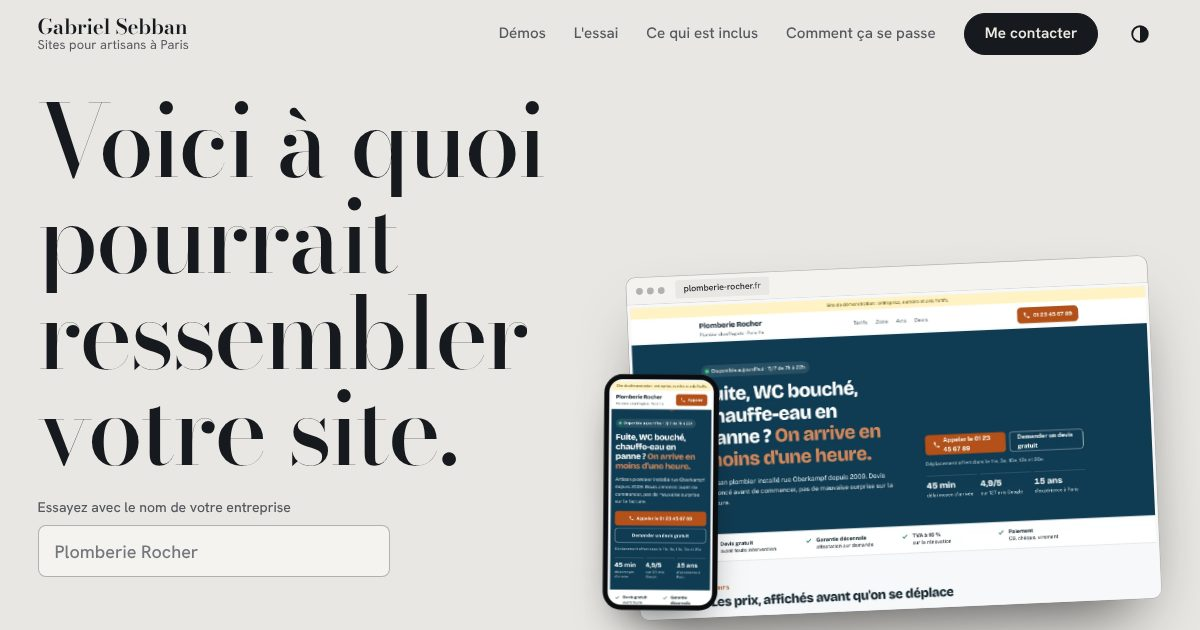
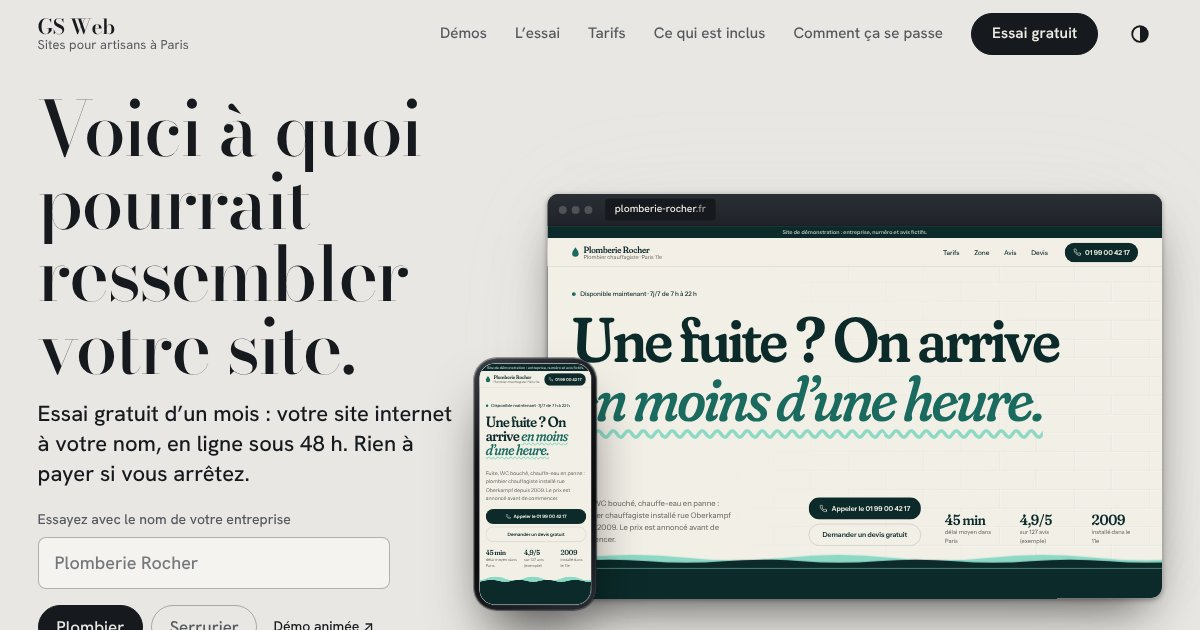
Nom GS Web et domaine gs-web.fr : titre, menu, pied de page, pages légales, aperçu de lien, fiche Google, plan du site
Claude-Session: https://claude.ai/code/session_01TEhd5nPBEFSPFYX54yiJJf

diff --git a/index.html b/index.html
@@ -3,17 +3,21 @@
 <head>
 <meta charset="utf-8">
 <meta name="viewport" content="width=device-width, initial-scale=1, viewport-fit=cover">
-<title>Création de sites internet pour artisans à Paris — Gabriel Sebban</title>
-<!-- Adresse temporaire GitHub Pages ; quand le domaine .fr sera acheté, remplacer cette adresse dans index.html, robots.txt et sitemap.xml -->
-<link rel="canonical" href="https://gabrielsebban3-code.github.io/site-vitrine/">
+<title>Création de sites internet pour artisans à Paris | GS Web</title>
+<link rel="canonical" href="https://gs-web.fr/">
 <meta name="description" content="Site internet pour artisans parisiens : plombier, serrurier, électricien. Essai gratuit d'un mois, première version en ligne sous 48 h, rien à payer si vous arrêtez.">
 <meta name="theme-color" content="#E9E7E3" media="(prefers-color-scheme: light)">
 <meta name="theme-color" content="#16191D" media="(prefers-color-scheme: dark)">
 <meta property="og:type" content="website">
 <meta property="og:locale" content="fr_FR">
+<meta property="og:site_name" content="GS Web">
 <meta property="og:title" content="Votre site à l'essai pendant 1 mois">
 <meta property="og:description" content="Sites pour artisans à Paris. Une première version à votre nom sous 48 h, retirée à la fin du mois si vous ne continuez pas.">
-<meta property="og:image" content="https://gabrielsebban3-code.github.io/site-vitrine/img/og.jpg">
+<meta property="og:image" content="https://gs-web.fr/img/og.jpg">
+<meta property="og:image:width" content="1200">
+<meta property="og:image:height" content="630">
+<meta property="og:image:alt" content="Le site GS Web : « Voici à quoi pourrait ressembler votre site », avec une démo de site pour artisan.">
+<meta name="twitter:card" content="summary_large_image">
 <link rel="icon" href="img/favicon.svg?v=2" type="image/svg+xml">
 <link rel="preload" href="fonts/bodoni-moda.woff2" as="font" type="font/woff2" crossorigin>
 <link rel="preload" href="fonts/hanken-grotesk.woff2" as="font" type="font/woff2" crossorigin>
@@ -27,14 +31,14 @@
   document.documentElement.classList.add('js');
 </script>
 <script src="js/main.js" defer></script>
-<meta property="og:url" content="https://gabrielsebban3-code.github.io/site-vitrine/">
+<meta property="og:url" content="https://gs-web.fr/">
 </head>
 <body>
 <a class="skip" href="#contenu">Aller au contenu</a>
 
 <header class="nav" id="haut">
   <div class="nav__in">
-    <a class="nav__brand" href="#haut">Gabriel Sebban<span>Sites pour artisans à Paris</span></a>
+    <a class="nav__brand" href="#haut">GS Web<span>Sites pour artisans à Paris</span></a>
     <nav class="nav__links" id="menu" aria-label="Menu principal">
       <a href="#les-demos">Démos</a>
       <a href="#offre">L’essai</a>
@@ -382,7 +386,7 @@
 </main>
 
 <footer class="foot">
-  <p>Gabriel Sebban — création de sites internet pour artisans, Paris</p>
+  <p>GS Web, Gabriel Sebban : création de sites internet pour artisans, Paris</p>
   <nav aria-label="Pages légales">
     <a class="link" href="mentions-legales.html">Mentions légales</a>
     <a class="link" href="conditions-essai.html">Conditions de l’essai</a>
@@ -410,7 +414,10 @@
 {
   "@context": "https://schema.org",
   "@type": "ProfessionalService",
-  "name": "Gabriel Sebban — Sites internet pour artisans",
+  "name": "GS Web",
+  "url": "https://gs-web.fr/",
+  "image": "https://gs-web.fr/img/og.jpg",
+  "email": "gabrielsebban3@gmail.com",
   "description": "Création de sites internet pour artisans à Paris (plombiers, serruriers, électriciens, peintres). Essai gratuit d'un mois : première version à votre nom en ligne sous 48 h, rien à payer si vous arrêtez.",
   "telephone": "+33649298151",
   "areaServed": { "@type": "City", "name": "Paris" },

diff --git a/mentions-legales.html b/mentions-legales.html
@@ -3,8 +3,8 @@
 <head>
 <meta charset="utf-8">
 <meta name="viewport" content="width=device-width, initial-scale=1">
-<title>Mentions légales | Gabriel Sebban</title>
-<meta name="description" content="Mentions légales du site de Gabriel Sebban, créateur de sites pour artisans à Paris.">
+<title>Mentions légales | GS Web</title>
+<meta name="description" content="Mentions légales du site GS Web (gs-web.fr), édité par Gabriel Sebban, créateur de sites pour artisans à Paris.">
 <meta name="robots" content="noindex">
 <link rel="icon" href="img/favicon.svg?v=2" type="image/svg+xml">
 <link rel="preload" href="fonts/bodoni-moda.woff2" as="font" type="font/woff2" crossorigin>
@@ -16,13 +16,13 @@
 </head>
 <body>
 <a class="skip" href="#contenu">Aller au contenu</a>
-<header class="legal-top"><a class="legal-brand" href="index.html">Gabriel Sebban</a><a class="link" href="index.html">Retour au site</a></header>
+<header class="legal-top"><a class="legal-brand" href="index.html">GS Web</a><a class="link" href="index.html">Retour au site</a></header>
 <main id="contenu" class="legal">
 <h1>Mentions légales</h1>
 <p class="legal-draft">Page en cours de finalisation : le numéro SIRET et l’adresse seront ajoutés très prochainement.</p>
 
 <h2>Éditeur du site</h2>
-<p>Gabriel Sebban, entrepreneur individuel (micro-entreprise).<br>SIRET&nbsp;: [à compléter]<br>Adresse&nbsp;: 93230 Romainville<br>Téléphone&nbsp;: <a href="tel:+33649298151">06 49 29 81 51</a><br>E-mail&nbsp;: <a href="mailto:gabrielsebban3@gmail.com">gabrielsebban3@gmail.com</a></p>
+<p>Site GS Web (gs-web.fr), édité par Gabriel Sebban, entrepreneur individuel (micro-entreprise).<br>SIRET&nbsp;: [à compléter]<br>Adresse&nbsp;: 93230 Romainville<br>Téléphone&nbsp;: <a href="tel:+33649298151">06 49 29 81 51</a><br>E-mail&nbsp;: <a href="mailto:gabrielsebban3@gmail.com">gabrielsebban3@gmail.com</a></p>
 <p>Directeur de la publication&nbsp;: Gabriel Sebban.</p>
 <h2>Hébergement</h2>
 <p>Ce site est hébergé par GitHub, Inc. (service GitHub Pages), 88 Colin P. Kelly Jr. Street, San Francisco, CA 94107, États-Unis — <a class="link" href="https://pages.github.com" rel="noopener">pages.github.com</a>.</p>
@@ -40,6 +40,6 @@
 <p>Les textes et la mise en page de ce site appartiennent à Gabriel Sebban. Les entreprises présentées dans les démos sont fictives.</p>
 
 </main>
-<footer class="foot"><p>Gabriel Sebban, Paris</p><nav aria-label="Pages légales"><a class="link" href="mentions-legales.html">Mentions légales</a><a class="link" href="conditions-essai.html">Conditions de l’essai</a></nav></footer>
+<footer class="foot"><p>GS Web, Gabriel Sebban, Paris</p><nav aria-label="Pages légales"><a class="link" href="mentions-legales.html">Mentions légales</a><a class="link" href="conditions-essai.html">Conditions de l’essai</a></nav></footer>
 </body>
 </html>

diff --git a/conditions-essai.html b/conditions-essai.html
@@ -3,7 +3,7 @@
 <head>
 <meta charset="utf-8">
 <meta name="viewport" content="width=device-width, initial-scale=1">
-<title>Conditions de l’essai | Gabriel Sebban</title>
+<title>Conditions de l’essai | GS Web</title>
 <meta name="description" content="Conditions de l'essai gratuit d'un mois : votre site à votre nom, retiré à la fin du mois si vous ne continuez pas, rien à payer.">
 <meta name="robots" content="noindex">
 <link rel="icon" href="img/favicon.svg?v=2" type="image/svg+xml">
@@ -16,7 +16,7 @@
 </head>
 <body>
 <a class="skip" href="#contenu">Aller au contenu</a>
-<header class="legal-top"><a class="legal-brand" href="index.html">Gabriel Sebban</a><a class="link" href="index.html">Retour au site</a></header>
+<header class="legal-top"><a class="legal-brand" href="index.html">GS Web</a><a class="link" href="index.html">Retour au site</a></header>
 <main id="contenu" class="legal">
 <h1>Conditions de l’essai</h1>
 <p class="legal-draft">Version de lancement : un accord écrit reprenant ces conditions est remis avant chaque essai.</p>
@@ -39,6 +39,6 @@
 <p>Un site aide vos clients à vous trouver et à vous appeler, mais je ne peux pas garantir un nombre d’appels ou de chantiers.</p>
 
 </main>
-<footer class="foot"><p>Gabriel Sebban, Paris</p><nav aria-label="Pages légales"><a class="link" href="mentions-legales.html">Mentions légales</a><a class="link" href="conditions-essai.html">Conditions de l’essai</a></nav></footer>
+<footer class="foot"><p>GS Web, Gabriel Sebban, Paris</p><nav aria-label="Pages légales"><a class="link" href="mentions-legales.html">Mentions légales</a><a class="link" href="conditions-essai.html">Conditions de l’essai</a></nav></footer>
 </body>
 </html>

diff --git a/mes-visites.html b/mes-visites.html
@@ -3,7 +3,7 @@
 <head>
 <meta charset="utf-8">
 <meta name="viewport" content="width=device-width, initial-scale=1">
-<title>Mes visites | Gabriel Sebban</title>
+<title>Mes visites | GS Web</title>
 <meta name="robots" content="noindex, nofollow">
 <link rel="icon" href="img/favicon.svg?v=2" type="image/svg+xml">
 <link rel="preload" href="fonts/bodoni-moda.woff2" as="font" type="font/woff2" crossorigin>
@@ -29,7 +29,7 @@
 </style>
 </head>
 <body>
-<header class="legal-top"><a class="legal-brand" href="index.html">Gabriel Sebban</a><a class="link" href="index.html">Retour au site</a></header>
+<header class="legal-top"><a class="legal-brand" href="index.html">GS Web</a><a class="link" href="index.html">Retour au site</a></header>
 <main class="legal stats">
 <h1>Mes visites</h1>
 <p class="legal-draft">Page privée : garde cette adresse pour toi (elle n'est reliée nulle part sur le site et interdite aux moteurs de recherche).</p>
